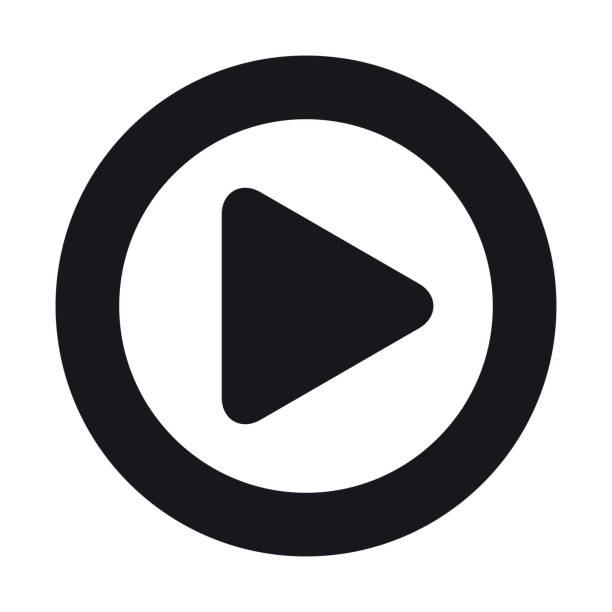
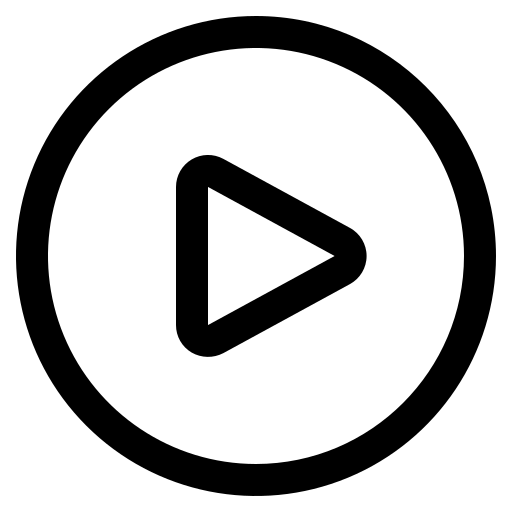
changed pause/play button so the texture changes, added a rewind button, added a class so i can easily set imgs so i can use them in the pygame window, added a constant stopwatch to track music runtime, will be used later for going to the previous song

diff --git a/Apps/mp3Player/MP3Player.py b/Apps/mp3Player/MP3Player.py
@@ -11,51 +11,160 @@
 
 # also use .ogg instead of mp3, its better, and more supported
 
+
+# for recieving over a socket (using pickle)
+# with open("temp_song.mp3", "wb") as f:         opens file, writes in binary mode, assigns file to f
+#     f.write(received_mp3_data)                 writes the recieved mp3 to the file
+
+# pygame.mixer.music.load("temp_song.mp3")       loads the mp3
+# pygame.mixer.music.play()                      plays the mp3
+
+
 import pygame
+import threading
+import time
 
 pygame.init()
 
 screen = pygame.display.set_mode((500, 350))
 
-play_button_img = pygame.image.load('Apps\mp3Player\play button.png').convert_alpha()
-play_button_img.set_colorkey((0, 0, 0))
-play_button_img = pygame.transform.scale(play_button_img,
-                                    (50, # 50px
-                                     50)) # by 50px
-play_button_x = 225
-play_button_y = 300
+songs = [
+    {
+        'Name': 'Gorillaz - Feel Good Inc.',
+        'Path': r'Apps\mp3Player\Gorillaz - Feel Good Inc. (Official Video).mp3'
+    }
+]
 
-song = pygame.mixer.Sound('Apps\mp3Player\Gorillaz - Feel Good Inc. (Official Video).mp3')
+run_timer = True
+current_time = 0.0
+
+class setImgs():
+    def __init__(self, x, y, w, h, istransparent, colortoignorefortransparency, imgRaw):
+        self.x = x
+        self.y = y
+        self.w = w
+        self.h = h
+        self.istransparent = istransparent
+        self.colortoignorefortransparency = colortoignorefortransparency
+        self.imgRaw = imgRaw
+    def make_img(self):
+        img = pygame.image.load(self.imgRaw).convert()
+        if self.istransparent:
+            img.set_colorkey(self.colortoignorefortransparency)
+            print(self.colortoignorefortransparency)
+        img = pygame.transform.scale(img, (self.w, self.h))
+        return img
+
+def track_song_progress():
+    global current_time, song_playing
+    while run_timer:
+        if song_playing:
+            time.sleep(0.1)
+            current_time += 0.1
+            print(f"Track Run Time: {current_time}s")
+        else:
+            time.sleep(0.05)
+
+play_button = setImgs(225, 300, 50, 50, True, (255, 255, 255), r'Apps\mp3Player\play button.png')
+play_button_img = play_button.make_img()
+
+pause_button = setImgs(225, 300, 50, 50, True, (255, 255, 255), r'Apps\mp3Player\pause button.png')
+pause_button_img = pause_button.make_img()
+
+rewind_button = setImgs(175, 300, 50, 50, True, (255, 255, 255), r'Apps\mp3Player\rewind button.png')
+rewind_button_img = rewind_button.make_img()
+
+play_pause_button_status = 'Play'
+
 song_playing = False
 song_started = False
+
+progress_thread = threading.Thread(target=track_song_progress, daemon=True)
+progress_thread.start()
 
 running = True
 while running:
     mpos = pygame.mouse.get_pos()
     mouseButtonDown = False
+    spaceButtonDown = False
+
+    ################################################################################
+    # EVENT HANDLEING
+    ################################################################################
 
     screen.fill((255, 255, 255))
     for event in pygame.event.get():
         if event.type == pygame.QUIT:
             running = False
-        if event.type == pygame.MOUSEBUTTONDOWN:
+        elif event.type == pygame.MOUSEBUTTONDOWN:
             mouseButtonDown = True
+        elif event.type == pygame.KEYDOWN:
+            if event.key == pygame.K_SPACE:
+                spaceButtonDown = True
 
-    play_button_hitbox = pygame.Rect(play_button_x, play_button_y, play_button_img.get_width(), play_button_img.get_height())
-    screen.blit(play_button_img, (play_button_x, play_button_y))
+    ################################################################################
+    # HITBOXES FOR ICONS
+    ################################################################################
 
-    m_collision = play_button_hitbox.collidepoint(mpos)
-    if m_collision and mouseButtonDown:
+    play_pause_button_hitbox = pygame.Rect(play_button.x, play_button.y, play_button_img.get_width(), play_button_img.get_height())
+    rewind_button_hitbox = pygame.Rect(rewind_button.x, rewind_button.y, rewind_button_img.get_width(), rewind_button_img.get_height())
+
+
+    ################################################################################
+    # BLITING
+    ################################################################################
+
+
+    pygame.draw.rect(screen, (255, 255, 0), pygame.Rect(0, 275, 500, 275))
+
+    if play_pause_button_status == 'Play':
+        screen.blit(play_button_img, (play_button.x, play_button.y))
+    else:
+        screen.blit(pause_button_img, (pause_button.x, pause_button.y))
+
+    screen.blit(rewind_button_img, (rewind_button.x, rewind_button.y))
+
+    ################################################################################
+    # COLLISION DETECTION
+    ################################################################################
+
+    m_collision_with_play_pause = play_pause_button_hitbox.collidepoint(mpos)
+    m_collision_with_rewind = rewind_button_hitbox.collidepoint(mpos)
+
+    ################################################################################
+    # IF LOOP MAYHEM (FIGURING OUT WHAT BUTTON WAS PRESSED)
+    ################################################################################
+
+    ####################### Collision With Play/Pause Button #######################
+
+    if (m_collision_with_play_pause and mouseButtonDown) or (spaceButtonDown):
         if not song_started and not song_playing:
-            curr_playing = song.play()
+            pygame.mixer.music.load(songs[0]['Path'])
+            pygame.mixer.music.play()
             song_playing = True
             song_started = True
+            play_pause_button_status = 'Pause'
         elif song_playing:
-            curr_playing.pause()
+            pygame.mixer.music.pause()
             song_playing = False
+            play_pause_button_status = 'Play'
         elif not song_playing and song_started:
-            curr_playing.unpause()
+            pygame.mixer.music.unpause()
             song_playing = True
+            play_pause_button_status = 'Pause'
+
+    ######################### Collision With Rewind Button #########################
+
+    elif m_collision_with_rewind and mouseButtonDown:
+        pygame.mixer.music.play(start=0)
+        current_time = 0.0
+        if song_playing == False:
+            pygame.mixer.music.pause()
+
+    ################################################################################
+    # UPDATE SCREEN
+    ################################################################################
+
     pygame.display.flip()
 
 pygame.quit()
